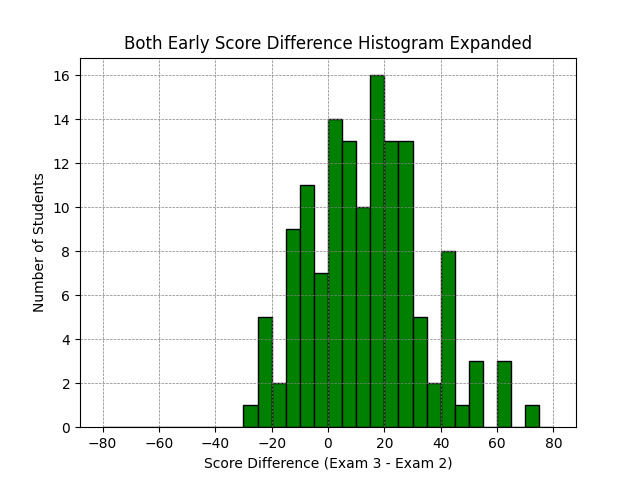
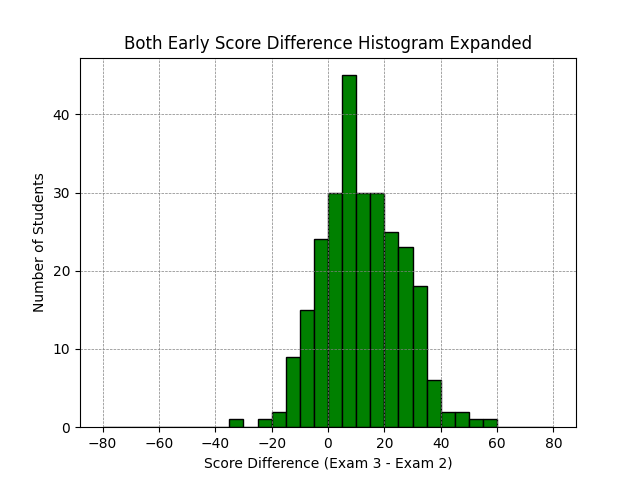
Fixed graphs to align ID's '

diff --git a/source/compare_exams.py b/source/compare_exams.py
@@ -36,35 +36,44 @@ def store_file_data(path): # Opens the CSV Data and Stores the Returns the Data 
 	return r_list
 
 def parse_file(list2, list3): # Dividing the Data into appropriate bins
+	count = 0
 	for i in range(len(list2) - 1):
-		if list2[i][1] != "NULL" and list3[i][1] != "NULL":
-			exam2_scores.append(float(list2[i][1]))
-			exam3_scores.append(float(list3[i][1]))
+		row = list3[0]
+		for j in range(len(list3) - 1):
+			if list2[i][0] == list3[j][0]:
+				row = list3[j]
+				list3.pop(j)
+				break
 
-			difference.append(float(list3[i][1]) - float(list2[i][1]))
+		if list2[i][1] != "NULL" and row[1] != "NULL" and list2[i][0] == row[0]:
+			exam2_scores.append(float(list2[i][1]))
+			exam3_scores.append(float(row[1]))
+
+			difference.append(float(row[1]) - float(list2[i][1]))
 			counting_numbers.append(i)
 
 			if list2[i][8] != "NULL" and float(list2[i][8]) <= early_time:
-				if list3[i][8] != "NULL" and float(list3[i][8]) <= early_time:
-					both_early.append(float(list3[i][1]) - float(list2[i][1]))
+				if row[8] != "NULL" and float(row[8]) <= early_time:
+					both_early.append(float(row[1]) - float(list2[i][1]))
 				else:
-					first_early.append(float(list3[i][1]) - float(list2[i][1]))
-					one_early.append(float(list3[i][1]) - float(list2[i][1]))
-			elif list3[i][8] != "NULL" and float(list3[i][8]) <= early_time:
-				last_early.append(float(list3[i][1]) - float(list2[i][1]))
-				one_early.append(float(list3[i][1]) - float(list2[i][1]))
-			elif float(list2[i][6]) == 0 and float(list3[i][6]):
-				no_pt.append(float(list3[i][1]) - float(list2[i][1]))
+					first_early.append(float(row[1]) - float(list2[i][1]))
+					one_early.append(float(row[1]) - float(list2[i][1]))
+			elif row[8] != "NULL" and float(row[8]) <= early_time:
+				last_early.append(float(row[1]) - float(list2[i][1]))
+				one_early.append(float(row[1]) - float(list2[i][1]))
+			elif float(list2[i][6]) == 0 and float(row[6]):
+				no_pt.append(float(row[1]) - float(list2[i][1]))
 			else:
-				not_early.append(float(list3[i][1]) - float(list2[i][1]))
+				not_early.append(float(row[1]) - float(list2[i][1]))
 
-			if list3[i][5] != "NULL":
-				if list3[i][5] != "1":
-					delayed_last.append(float(list3[i][1]) - float(list2[i][1]))
+			if row[5] != "NULL":
+				if row[5] != "1":
+					delayed_last.append(float(row[1]) - float(list2[i][1]))
 				else:
-					immediate_last.append(float(list3[i][1]) - float(list2[i][1]))
+					immediate_last.append(float(row[1]) - float(list2[i][1]))
 		else:
-			print(list2[i][0])
+			count += 1
+	print(str(count) + " ids were not found between both exams\n")
 
 def draw_graph(name):
 	# Scatter Plot
@@ -101,9 +110,9 @@ def draw_difference(name):
 	# plt.savefig("../graphs/" + name + ".png")
 	plt.show()
 
-def draw_histogram(name, list):
+def draw_histogram(name, list, color):
 	def_bins = np.linspace(-80, 80, num=33) 
-	n, bins, patches = plt.hist(list, bins = def_bins, facecolor = 'purple', ec = 'black')
+	n, bins, patches = plt.hist(list, bins = def_bins, facecolor = color, ec = 'black')
 	plt.title(name)
 	plt.xlabel("Score Difference (Exam 3 - Exam 2)")
 	plt.ylabel("Number of Students")
@@ -112,8 +121,10 @@ def draw_histogram(name, list):
 	plt.show()
 	plt.clf()
 
+	print(name)
 	print("Mean: " + str(np.mean(list)))
 	print("Standard Deviation: " + str(np.std(list)))
+	print()
 
 r_list2 = store_file_data(exam2_path)
 r_list3 = store_file_data(exam3_path)
@@ -123,14 +134,15 @@ parse_file(r_list2, r_list3)
 # print("Exam 2 Average: " + str(np.mean(exam2_scores)))
 # print("Exam 3 Average: " + str(np.mean(exam3_scores)))
 
-# draw_difference("Score Change")
+draw_difference("Score Change")
 
-draw_histogram("Score Difference Histogram Expanded", difference)
-# draw_histogram("Both Early Score Difference Histogram Expanded", both_early)
-# draw_histogram("One Early Score Difference Histogram Expanded", one_early)
-# draw_histogram("One Late Score Difference Histogram Expanded", not_early)
-# draw_histogram("No Practice Test Score Difference Histogram Expanded", no_pt)
-# draw_histogram("Delayed Feedback for Exam 3 Score Difference Histogram Expanded", delayed_last)
-# draw_histogram("Immediate Feedback for Exam 3 Score Difference Histogram Expanded", immediate_last)
-# draw_histogram("Early For Exam 2 Score Difference Histogram Expanded", first_early)
-# draw_histogram("Early for Exam 3 Score Difference Histogram Expanded", last_early)
+# draw_histogram("Score Difference Histogram Expanded ", difference, "purple")
+# draw_histogram("Both Early Score Difference Histogram Expanded", both_early, "green")
+# draw_histogram("One Early Score Difference Histogram Expanded", one_early, "blue")
+# draw_histogram("One Late Score Difference Histogram Expanded", not_early, "red")
+# draw_histogram("No Practice Test Score Difference Histogram Expanded", no_pt, "cyan")
+# draw_histogram("Delayed Feedback for Exam 3 Score Difference Histogram Expanded", delayed_last, "yellow")
+# draw_histogram("Immediate Feedback for Exam 3 Score Difference Histogram Expanded", immediate_last, "maroon")
+# draw_histogram("Early For Exam 2 Score Difference Histogram Expanded", first_early, "teal")
+# draw_histogram("Early for Exam 3 Score Difference Histogram Expanded", last_early, "orange")
+
